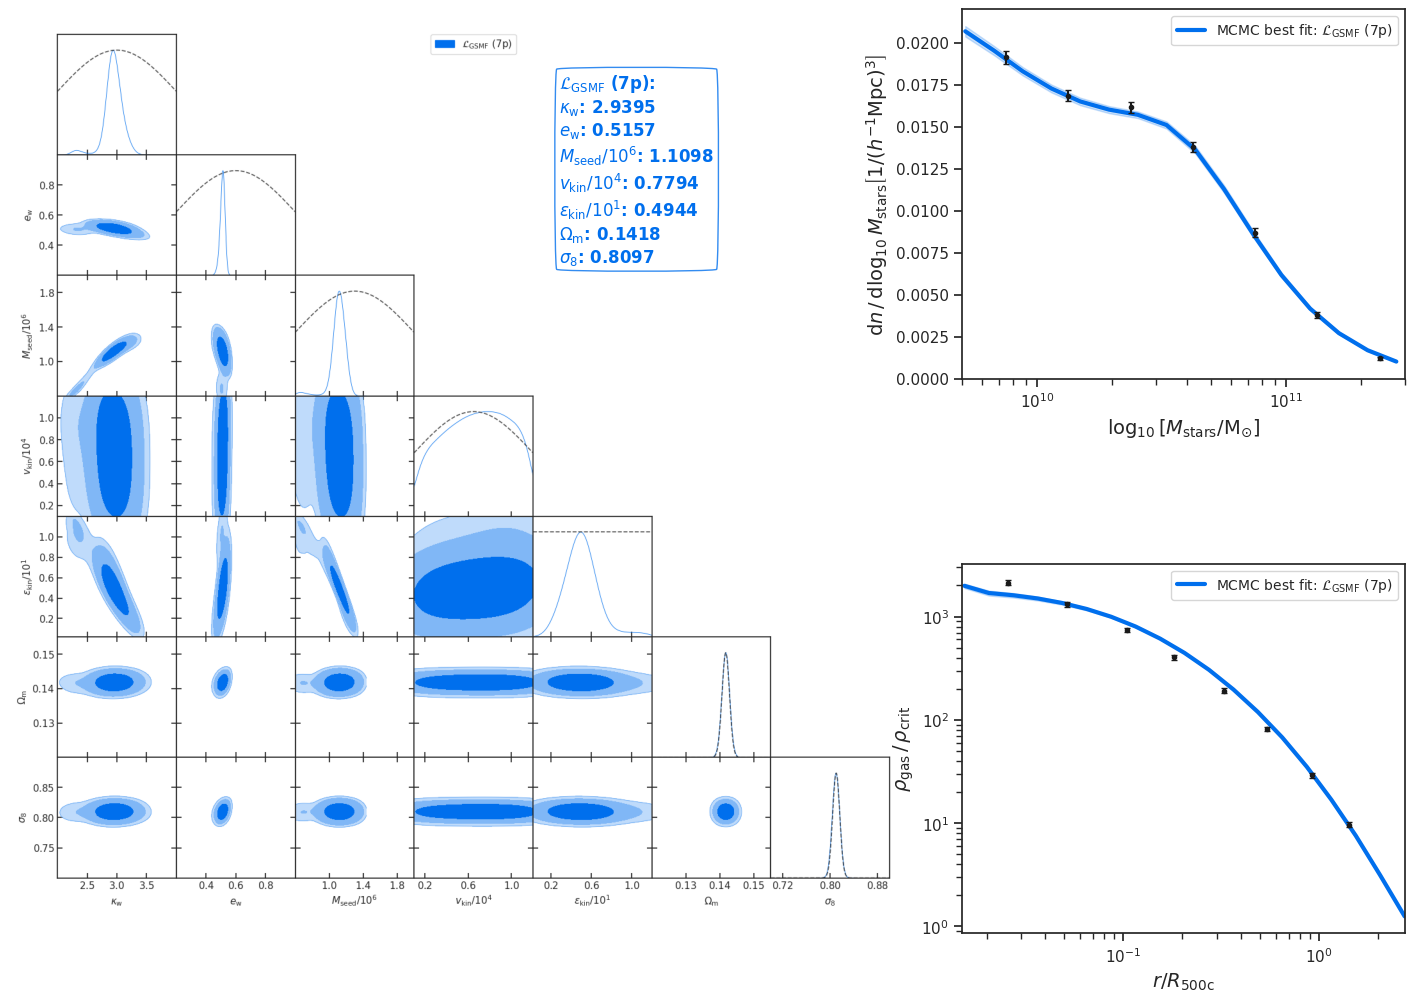
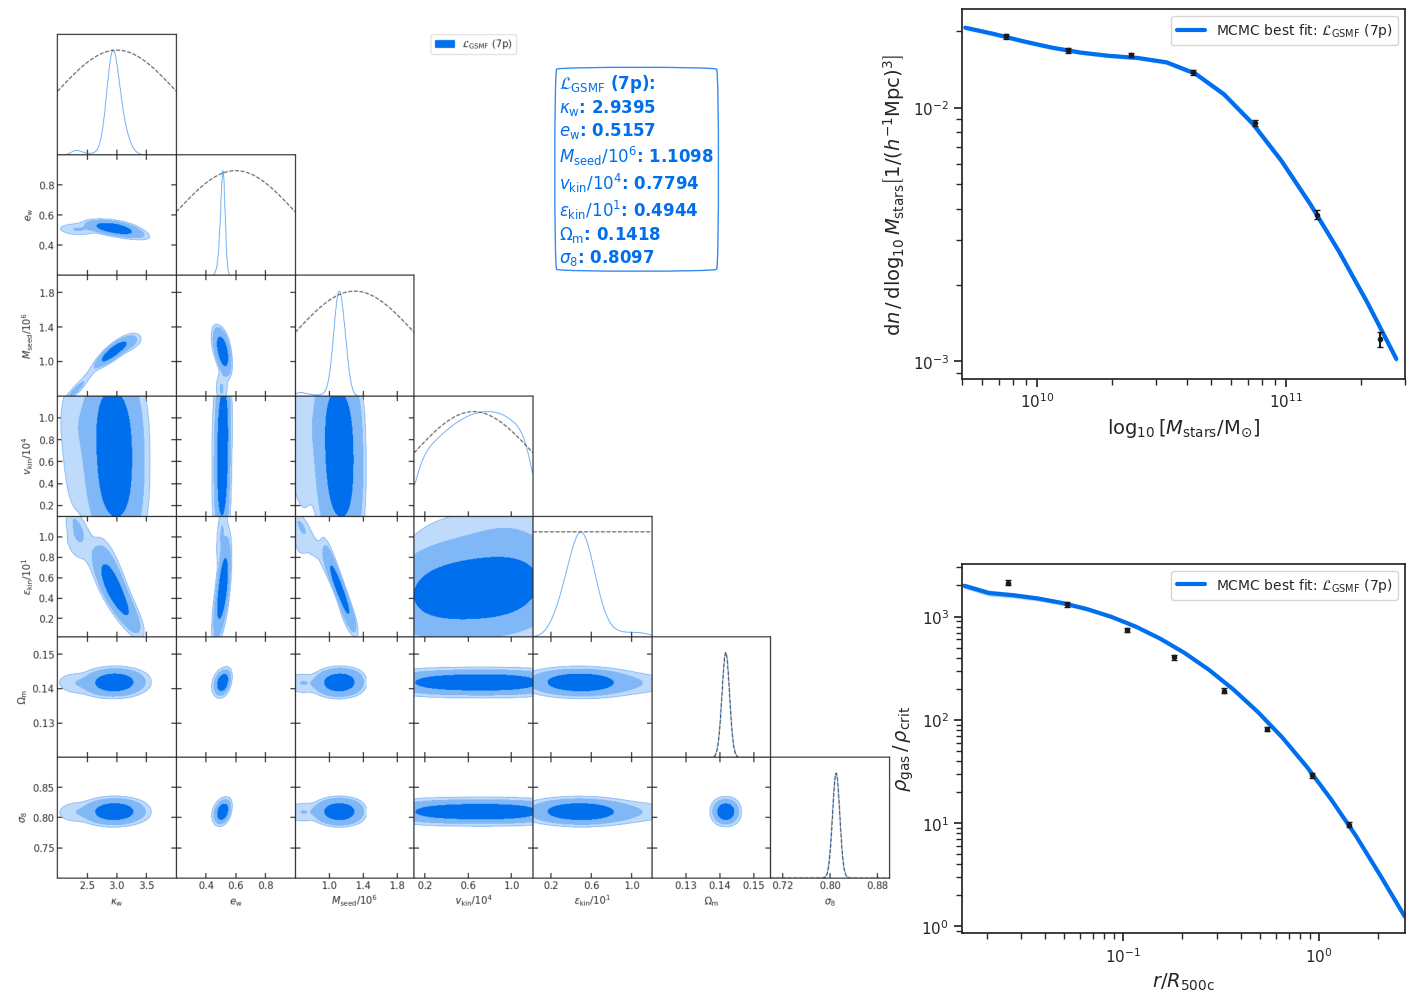
jul11 -- mcmc pk done

diff --git a/Inference/plot_mcmc.py b/Inference/plot_mcmc.py
@@ -243,7 +243,10 @@ def configure_axes(axes, obs_list, data_dict):
         axes[i].set_xlabel(x_label, fontsize=14)
         axes[i].set_ylabel(y_label, fontsize=14)
 
-        if obs in ('CGD', 'CGED', 'HMF'):
+        # GSMF panel: the plotted quantity (np.log10(model_grid), which recovers
+        # the number density dn/dlog10 M) is shown on a log y-axis, as is standard
+        # for stellar mass functions.
+        if obs in ('GSMF', 'CGD', 'CGED', 'HMF'):
             axes[i].set_yscale('log')
 
 
